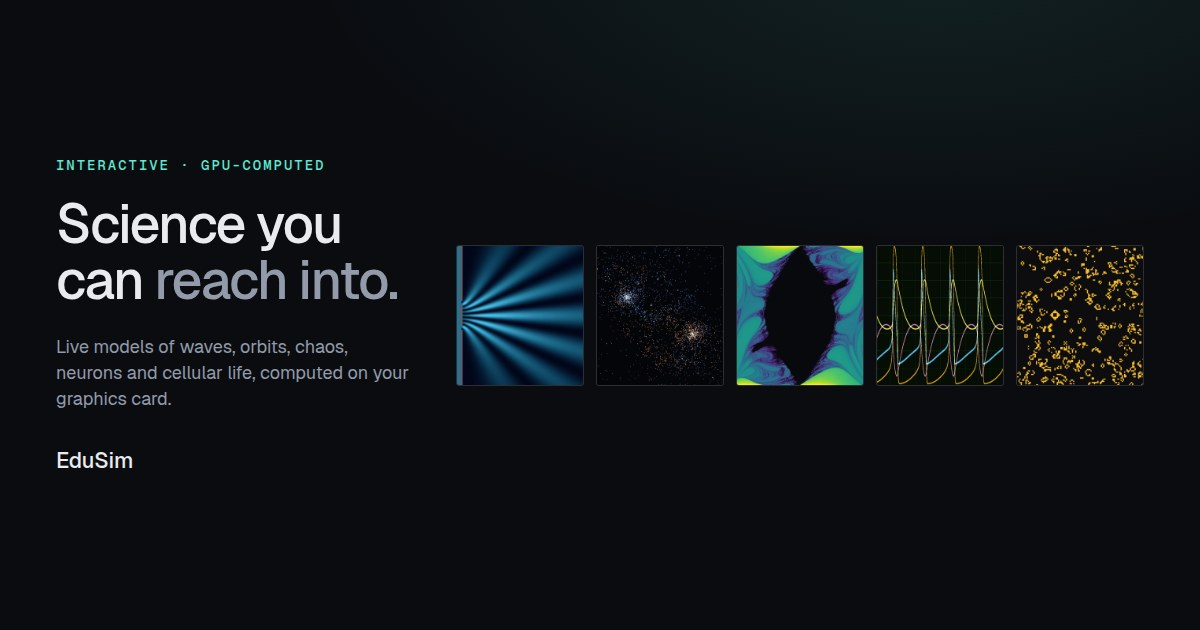
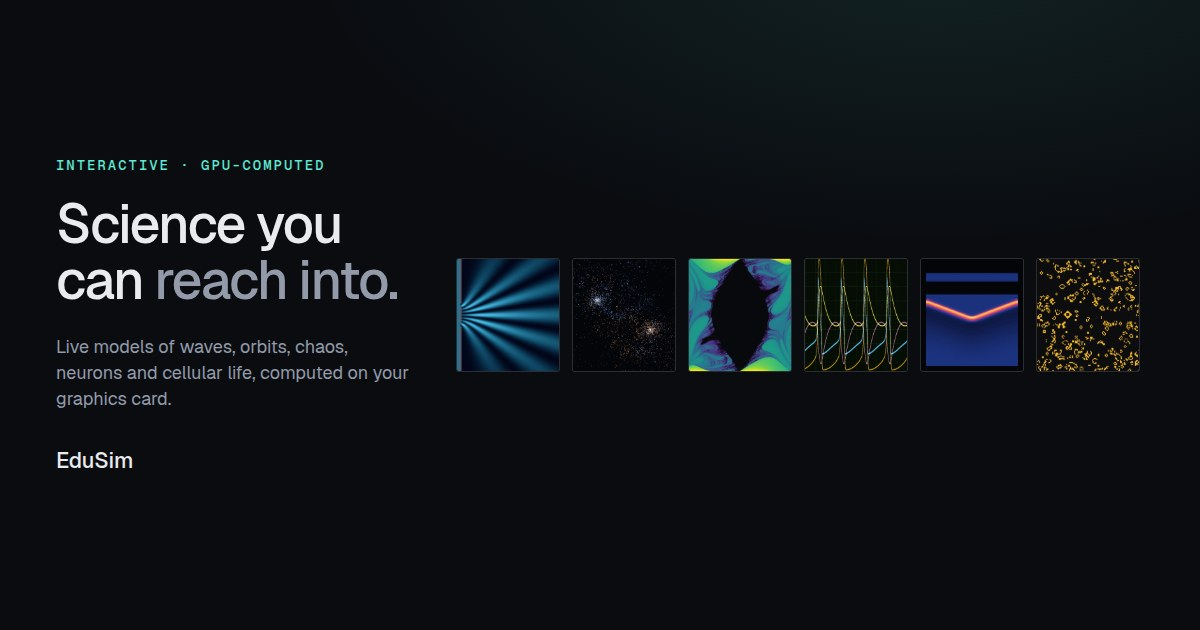
Ship Axons & Nerves; fix two intermittent UI bugs
Axons & Nerves (the first half of "a brain on the GPU"):
- Axon view: Hodgkin–Huxley cable (squid giant axon to 1 µm C fibres,
  bare or myelinated), kymograph and two recording electrodes; pulse
  pairs and stimulation from both ends; TTX/lidocaine and demyelination
  on a draggable stretch; temperature (with heat block).
- Nerve view: up to 1 000 fibres of mixed sizes, each a full cable on
  the GPU, and the compound action potential at a movable electrode.
- 7 challenges checked against the twin; 7 e2e scenarios; poster,
  live home preview (six plates), docs.

Fixes found by the full e2e runs:
- n-body: an arrow grabbed right after an edit was hit-tested with the
  previous arrow length (it became a pan); the length now updates at
  the commit.
- Challenges: a reached goal could un-reach itself (e.g. the glider
  gun's population dipping below 100 again), hiding the explanation;
  the goal now stays reached for that attempt.
- e2e: three double-pendulum scenarios read the link or clock before a
  debounced write or a restart had landed; they now wait for it.

Claude-Session: https://claude.ai/code/session_01Ff7vaMEjfpfqEF3sHtM4Yj

Changed region(s): [[0.37, 0.3619, 0.9558, 0.6333], [0.37, 0.4524, 0.4317, 0.5429]]

diff --git a/src/lib/subjects.ts b/src/lib/subjects.ts
@@ -44,7 +44,7 @@ export const SIMULATIONS: SimMeta[] = [
   { id: "bst", title: "Binary Search Tree", subject: "cs", difficulty: "easy", description: "BST, AVL, and Red-Black tree operations with animations.", path: "/cs/bst", implemented: false },
   // Biology
   { id: "hodgkin-huxley", title: "Hodgkin-Huxley Neuron", subject: "biology", difficulty: "medium", description: "Simulate ion channel dynamics and action potential generation.", tagline: "Ion channels firing an action potential, step by step.", posterAlt: "Voltage and gate traces of a neuron firing repeatedly", path: "/biology/hodgkin-huxley", implemented: true },
-  { id: "axon-propagation", title: "Axons & Nerves", subject: "biology", difficulty: "medium", description: "Watch action potentials propagate along myelinated and unmyelinated axons, and a whole nerve fire.", tagline: "Spikes racing down axons, measured — and a whole nerve on the GPU.", posterAlt: "A space–time plot of a spike travelling along an axon as a bright diagonal line", path: "/biology/axon-propagation", implemented: true },
+  { id: "axon-propagation", title: "Axons & Nerves", subject: "biology", difficulty: "medium", description: "Watch action potentials propagate along myelinated and unmyelinated axons, and a whole nerve fire.", tagline: "Spikes racing down axons, measured — and a whole nerve on the GPU.", posterAlt: "A space–time plot of two spikes travelling towards each other along an axon and annihilating where they meet", path: "/biology/axon-propagation", implemented: true },
   { id: "synaptic-transmission", title: "Synaptic Transmission", subject: "biology", difficulty: "hard", description: "Neurotransmitter release, diffusion, and receptor binding.", path: "/biology/synaptic-transmission", implemented: false },
   { id: "neural-net-learning", title: "Neural Network Learning", subject: "biology", difficulty: "hard", description: "Biological perspective on neural network training and plasticity.", path: "/biology/neural-net-learning", implemented: false },
   { id: "membrane-potential", title: "Resting Membrane Potential", subject: "biology", difficulty: "easy", description: "Nernst and Goldman equations with ion diffusion visualization.", path: "/biology/membrane-potential", implemented: false },

diff --git a/src/components/ChallengesPanel.tsx b/src/components/ChallengesPanel.tsx
@@ -9,6 +9,8 @@ interface Session {
   started: boolean;
   showHint: boolean;
   revealed: boolean;
+  /** The goal was reached at some point this session: it stays reached even if a live readout drifts back. */
+  achieved: boolean;
 }
 
 interface ChallengesPanelProps<P, R> {
@@ -28,13 +30,18 @@ export function ChallengesPanel<P, R>({ simId, challenges, params, readouts, onS
   const [choice, setChoice] = useState<number | null>(null);
 
   const challenge = challenges.find((c) => c.id === session?.id);
-  const goalMet = !!challenge && !!session?.started && challenge.goal.check({ params, readouts });
+  const liveGoal = !!challenge && !!session?.started && challenge.goal.check({ params, readouts });
 
   // Completion is derived from the live goal check, so it is recorded while rendering (React's
   // documented pattern for adjusting state from props) and only the persistence is an effect.
-  if (goalMet && challenge && !completed.includes(challenge.id)) {
+  if (liveGoal && challenge && !completed.includes(challenge.id)) {
     setCompleted([...completed, challenge.id]);
   }
+  // Once reached, the goal stays reached for this attempt (a population that dips again, a sweep that restarts).
+  if (liveGoal && session && !session.achieved) {
+    setSession({ ...session, achieved: true });
+  }
+  const goalMet = liveGoal || !!session?.achieved;
 
   useEffect(() => {
     saveCompletedChallenges(simId, completed);
@@ -42,12 +49,12 @@ export function ChallengesPanel<P, R>({ simId, challenges, params, readouts, onS
 
   const open = (c: Challenge<P, R>) => {
     setChoice(null);
-    setSession({ id: c.id, answer: null, started: false, showHint: false, revealed: false });
+    setSession({ id: c.id, answer: null, started: false, showHint: false, revealed: false, achieved: false });
   };
 
   const start = (c: Challenge<P, R>, answer: number | null) => {
     onSetup(c.setup);
-    setSession({ id: c.id, answer, started: true, showHint: false, revealed: false });
+    setSession({ id: c.id, answer, started: true, showHint: false, revealed: false, achieved: false });
   };
 
   if (!challenge || !session) {

diff --git a/src/simulations/physics/n-body/controls.tsx b/src/simulations/physics/n-body/controls.tsx
@@ -158,6 +158,9 @@ export default function NBodyControls() {
   /** The picture edits start from: the running system if it has moved, else the stored setup. */
   const editBase = () => (sim && stats && stats.time > 0 ? sim.currentBodies() : setup);
   const commitBodies = (bodies: Body[], fit = false) => {
+    // The arrows' length comes from the setup; update it now, not after the next render, so that an arrow grabbed
+    // right after this edit is hit where it is drawn.
+    looks.current = { ...looks.current, arrowTime: arrowYears(bodies) };
     // Measurements of the old setup are stale now; showing them would also push old values back into the sliders.
     setStats(null);
     setPlaying(false);
@@ -182,12 +185,14 @@ export default function NBodyControls() {
       drag.current = null;
       return;
     }
-    const hit = orbit && overlayState.current ? hitTest(overlayState.current, p.x, p.y) : null;
+    // Arrow length as it is now (the last drawn frame may predate an edit made a moment ago).
+    const arrowTime = looks.current.arrowTime;
+    const hit = orbit && overlayState.current ? hitTest({ ...overlayState.current, arrowTime }, p.x, p.y) : null;
     if (hit) {
       setSelected(hit.index);
       setPlaying(false);
       const base = sim.currentBodies();
-      drag.current = { kind: hit.kind, index: hit.index, base, last: base, ...p, arrowTime: overlayState.current!.arrowTime };
+      drag.current = { kind: hit.kind, index: hit.index, base, last: base, ...p, arrowTime };
     } else {
       drag.current = { kind: "pan", index: -1, base: [], last: [], ...p, arrowTime: 0 };
     }

diff --git a/src/simulations/previews.ts b/src/simulations/previews.ts
@@ -8,6 +8,9 @@ import { createCellularAutomata } from "./cs/cellular-automata/sim";
 import type { CellularAutomataHandle } from "./cs/cellular-automata/sim";
 import { createHodgkinHuxley } from "./biology/hodgkin-huxley/sim";
 import type { HHHandle } from "./biology/hodgkin-huxley/sim";
+import { createAxonSim } from "./biology/axon-propagation/sim";
+import type { AxonHandle } from "./biology/axon-propagation/sim";
+import { AXON_DEFAULTS } from "./biology/axon-propagation/settings";
 import { createDoublePendulum } from "./physics/double-pendulum/sim";
 import type { PendulumHandle } from "./physics/double-pendulum/sim";
 import { DEFAULT_PENDULUM, FULL_WINDOW } from "./physics/double-pendulum/pendulum";
@@ -62,6 +65,16 @@ export const PREVIEWS: Record<string, Preview> = {
     setup(handle) {
       // The flip-time fractal developing from dark: a quarter of a million pendulums, one per pixel.
       handle.configure({ view: "fractal", start: [0, 0], params: DEFAULT_PENDULUM, integrator: "rk4", count: 2, nudge: 1e-9, fractalSize: 512, window: FULL_WINDOW, boundary: false });
+      handle.play();
+    },
+  }),
+
+  "axon-propagation": define<AxonHandle>({
+    factory: (ctx) => createAxonSim(ctx),
+    setup(handle) {
+      // Two spikes fired from both ends meet and annihilate: an X that never crosses, sweep after sweep.
+      handle.configure({ ...AXON_DEFAULTS, pulses: "both" });
+      handle.setSpeed(4);
       handle.play();
     },
   }),

diff --git a/README.md b/README.md
@@ -8,6 +8,7 @@ Built with Next.js 16 (App Router, Turbopack), React 19, Tailwind 4 and [vgpu](h
 | Wave Interference & Diffraction | Physics | Fragment shader; Huygens–Fresnel slits as phasor sums |
 | N-Body Orbital Mechanics | Physics | Tiled all-pairs gravity compute shader (up to 16 384 bodies), leapfrog integrator, instanced rendering |
 | Double Pendulum Chaos | Physics | One RK4 compute kernel for every view: a 32-bit GPU crowd of up to 10 000 pendulums against a 64-bit CPU pair, and a flip-time fractal of up to 1024² pendulums (one per pixel) |
+| Axons & Nerves | Biology | Hodgkin–Huxley cables, one GPU invocation per fibre solving its tridiagonal system implicitly (Thomas algorithm); a nerve of up to 1 000 fibres and its compound action potential |
 | Hodgkin–Huxley Neuron | Biology | Compute shader integrates the ODEs; fragment shader plots the traces |
 | Cellular Automata | Computer Science | Ping-pong compute shader over grids up to 2048²; a reduction shader counts and fingerprints every generation; pan/zoom renderer |
 
@@ -37,7 +38,7 @@ explanatory message instead of a blank canvas.
 | `pnpm check:wgsl` | Validates every `.wgsl` file against a real WebGPU device (`next build` does not) |
 | `pnpm build` | Production build (all simulation routes are statically generated) |
 | `pnpm smoke` | Browser smoke test of a running server (`BASE_URL=http://localhost:3000`) |
-| `pnpm e2e` | Full browser suite (71 scenarios: every sim, URL state, measurement tools, challenges, shortcuts, no-WebGPU, phone) against `BASE_URL`. Works on `pnpm start`, `pnpm dev` with `E2E_DEV=1` (React strict mode; skips size budgets) and a static export. `E2E_GREP=<regex>` runs only the scenarios whose name matches |
+| `pnpm e2e` | Full browser suite (78 scenarios: every sim, URL state, measurement tools, challenges, shortcuts, no-WebGPU, phone) against `BASE_URL`. Works on `pnpm start`, `pnpm dev` with `E2E_DEV=1` (React strict mode; skips size budgets) and a static export. `E2E_GREP=<regex>` runs only the scenarios whose name matches |
 | `pnpm smoke:local` | Builds, serves on a spare port, runs the smoke test, stops the server |
 | `pnpm export` | Fully static offline build in `out/` — serve with any static file server, no Node or internet |
 | `pnpm verify` | lint → typecheck → test → check:wgsl → build |
@@ -106,6 +107,15 @@ src/
   the Butterfly crowd (`crowdAngles` keeps its 32-bit starts distinct) and the Fractal run `pendulum.wgsl` on the GPU.
   The fractal is seeded on the GPU (`seed.wgsl`), coloured by `fractal.wgsl` straight from the flip-time buffer, and
   the cursor readout copies out a single pixel instead of reading the map back.
+- **Axons & Nerves:** `cable.ts` is the 64-bit twin: HH membranes (shared with the neuron sim) joined into
+  compartments, a bare axon in equal compartments or a myelinated one as nodes of Ranvier and internodes (myelin
+  thickness ∝ diameter, nodes ~1 µm: Rushton's similarity, so speed ∝ diameter). Each step relaxes the gates, then
+  solves the voltages implicitly along the fibre (conductances linearised, Thomas algorithm): an explicit step would
+  need Δt < 0.004 ms for the squid axon. `cable.wgsl` runs one fibre per invocation for many steps per dispatch and
+  writes the kymograph, two electrode traces and each fibre's extracellular signal into one output buffer (four
+  storage buffers in all, within compatibility-mode limits); `cap.wgsl` sums the signals into the compound action
+  potential. Tested: HH 1952's 18.8 m/s (within 2 %), √d for bare and ∝ d for myelinated fibres, annihilation,
+  refractoriness, TTX/lidocaine and demyelination block, heat block.
 - **Cellular automata measurement:** `count.wgsl` reduces the grid to a live-cell count and an order-independent
   fingerprint every generation (into a 1024-slot ring buffer); `sim.ts` reads it back at most every 100 ms and
   `tracker.ts` classifies the history (extinct / still life / oscillator with period / moving pattern). It only runs

diff --git a/docs/BRAIN-PLAN.md b/docs/BRAIN-PLAN.md
@@ -5,6 +5,15 @@ The flagship biology work: grow the single Hodgkin–Huxley neuron into **signal
 correct. Same bar as every other simulation: a TypeScript twin of every shader, GPU-vs-twin tests, shareable
 settings, guided challenges, e2e scenarios, a poster and a live home-page preview.
 
+> **Status:** *Axons & Nerves* shipped (two simulations, Axons first, as recommended). What changed while
+> building it: (1) the squid axon's diffusion coefficient is 0.336 cm²/ms, not 0.034, so an explicit step would need
+> Δt < 0.004 ms: *every* fibre uses the implicit Thomas solve (with the ionic conductances linearised into it);
+> (2) one GPU invocation advances a whole fibre for many steps per dispatch, so the GPU parallelism is across fibres
+> (the nerve), and the single-axon view needs no read-back of its state to draw; (3) for speed ∝ diameter the
+> myelin must thicken with the fibre while nodes stay ~1 µm (Rushton's similarity) — scaling the nodes too, or not
+> the myelin, gives d^1.3 or d^0.4; (4) the compound action potential blanks the stimulus artifact, as an amplifier
+> does. Next: *Brain Rhythms*.
+
 It ships as **two simulations**, built in this order:
 
 1. **Axons & Nerves** (catalog id `axon-propagation`, already listed as planned): one axon, then a whole nerve
@@ -76,8 +85,9 @@ compound action potential lab, Backyard Brains cockroach labs):
 
 - **Operator splitting** each step: (1) gates and ionic currents per compartment, Rush–Larsen as in the HH sim,
   fully parallel; (2) axial diffusion.
-- Squid axon with Δx = 0.5 mm: diffusion coefficient a/(2RᵢC) ≈ 0.034 cm²/ms, so explicit diffusion is stable
-  for Δt < Δx²/(2D) ≈ 0.037 ms; the HH step of 0.01 ms is well inside. **Explicit is fine for the squid axon.**
+- Squid axon with Δx = 0.5 mm: diffusion coefficient a/(2RᵢC) ≈ 0.336 cm²/ms, so explicit diffusion would only be
+  stable for Δt < Δx²/(2D) ≈ 0.004 ms, below the HH step of 0.01 ms. **So every fibre is solved implicitly.**
+  (Corrected while building: an earlier draft of this plan had the coefficient ten times too small.)
 - Myelinated internodes (tiny capacitance) make explicit diffusion stiff. So diffusion is **implicit (backward
   Euler), solved with the Thomas algorithm, one GPU thread per fibre** — the nerve view has a thousand fibres, so
   the GPU stays busy, and each solve is exact. (NEURON solves the same tridiagonal system with the Hines

diff --git a/docs/ROADMAP.md b/docs/ROADMAP.md
@@ -129,9 +129,9 @@ Recommended order, each chosen to reuse what exists and to showcase the GPU:
    (up to 1024² pendulums) views, 4 challenges — see [`DOUBLE-PENDULUM-PLAN.md`](DOUBLE-PENDULUM-PLAN.md).
 2. **Resting membrane potential** (easy): reuses the biology UI and HH concepts (Nernst, Goldman).
 3. ✅ **N-body orbital mechanics** (medium): orbit lab + colliding galaxies, measured Kepler's laws, 4 challenges — see [`NBODY-PLAN.md`](NBODY-PLAN.md).
-4. **A brain on the GPU** (medium–hard): *Axons & Nerves* (HH cable, myelin, a nerve of a thousand fibres and
-   its compound action potential) then *Brain Rhythms* (up to 100 000 spiking neurons, rhythms, cortical waves).
-   Next up — plan in [`BRAIN-PLAN.md`](BRAIN-PLAN.md).
+4. **A brain on the GPU** (medium–hard): ✅ *Axons & Nerves* (HH cable, myelin, a nerve of a thousand fibres and
+   its compound action potential, 7 challenges); next *Brain Rhythms* (up to 100 000 spiking neurons, rhythms,
+   cortical waves). Plan in [`BRAIN-PLAN.md`](BRAIN-PLAN.md).
 
 Each one ships with the full foundation checklist: shader validation, TS twin + tests, smoke test,
 explanation text, at least one measurement tool and a few challenges.
